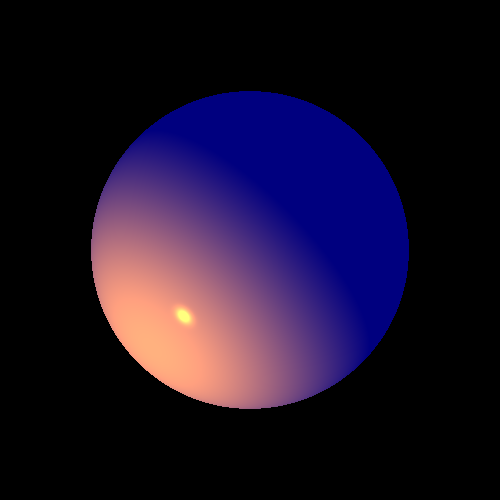
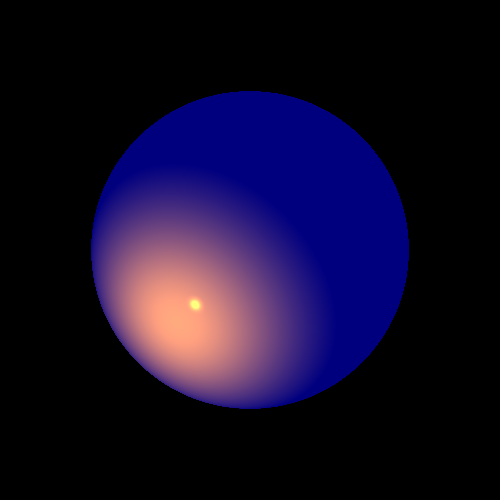
lights update

Changed region(s): [[0.18, 0.27, 0.72, 0.84], [0.33, 0.54, 0.45, 0.66]]

diff --git a/src/lighting/PointLight.java b/src/lighting/PointLight.java
@@ -39,7 +39,7 @@ public class PointLight extends Light implements LightSource {
 
     @Override
     public Vector getL(Point p) {
-        return position.subtract(p).normalize();
+        return p.subtract(position).normalize();
     }
 
     public PointLight setNarrowBeam(double narrowBeam) {

diff --git a/src/lighting/SpotLight.java b/src/lighting/SpotLight.java
@@ -33,7 +33,7 @@ public class SpotLight extends PointLight {
 
     @Override
     public Vector getL(Point p) {
-        return direction.normalize();
+        return super.getL(p);
     }
 
 
